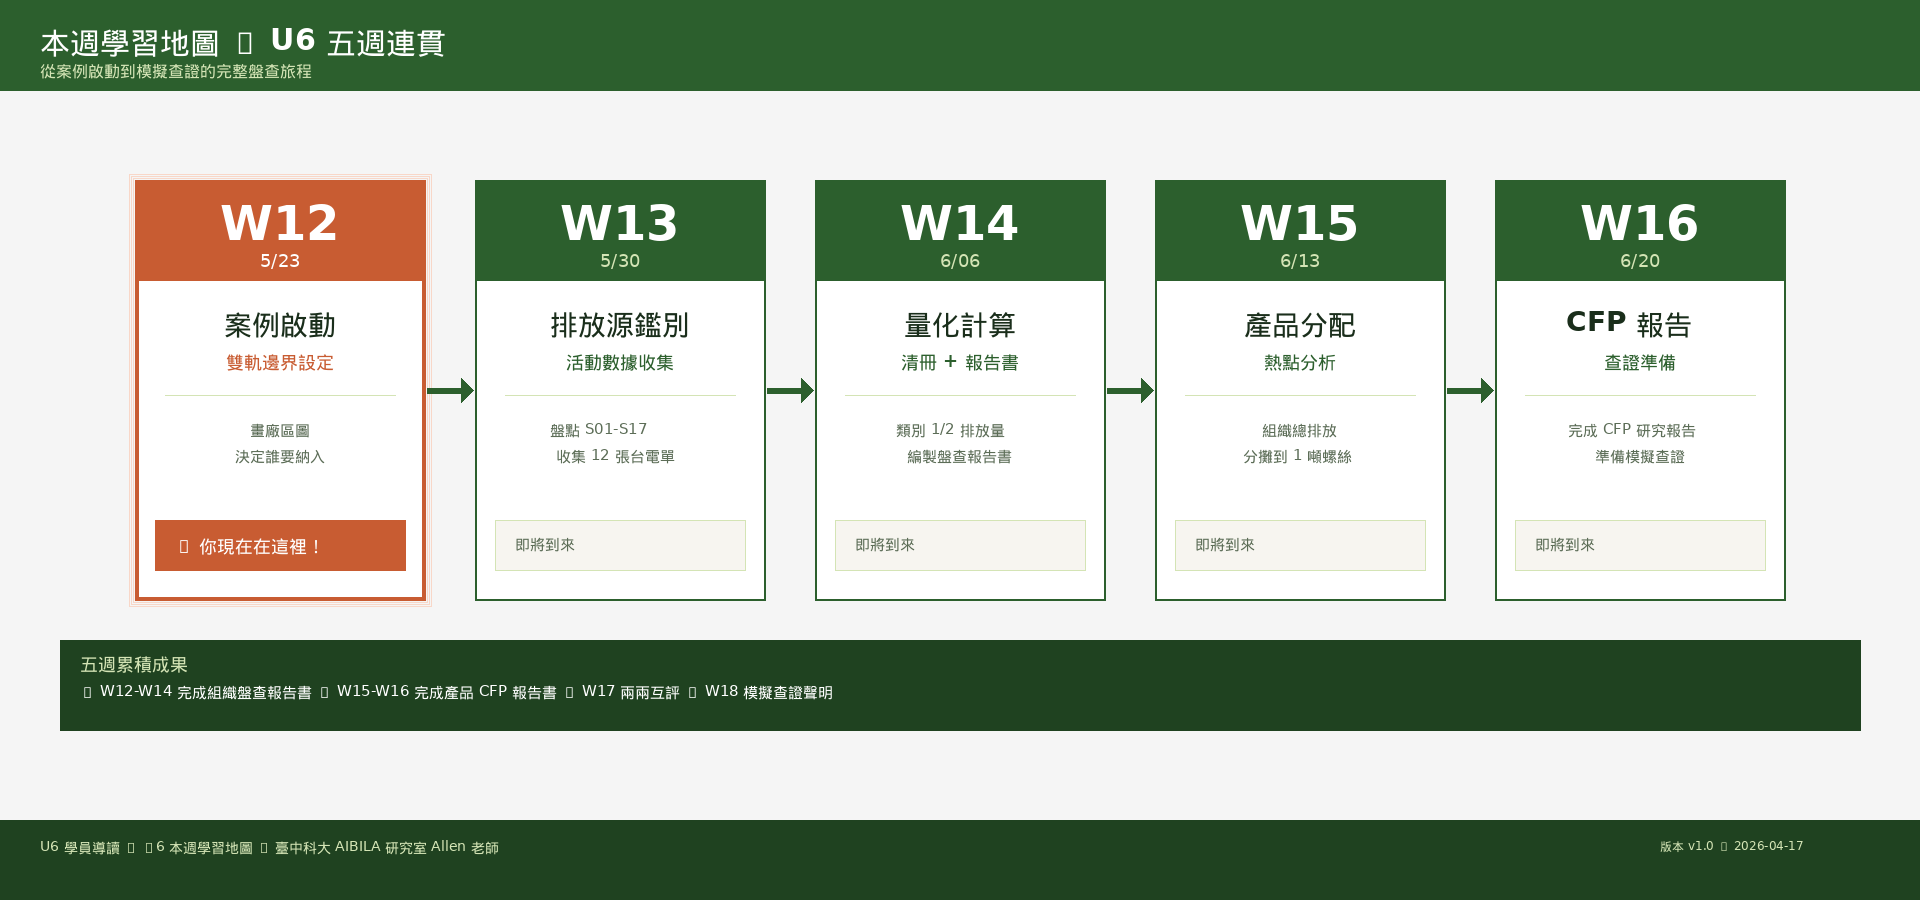
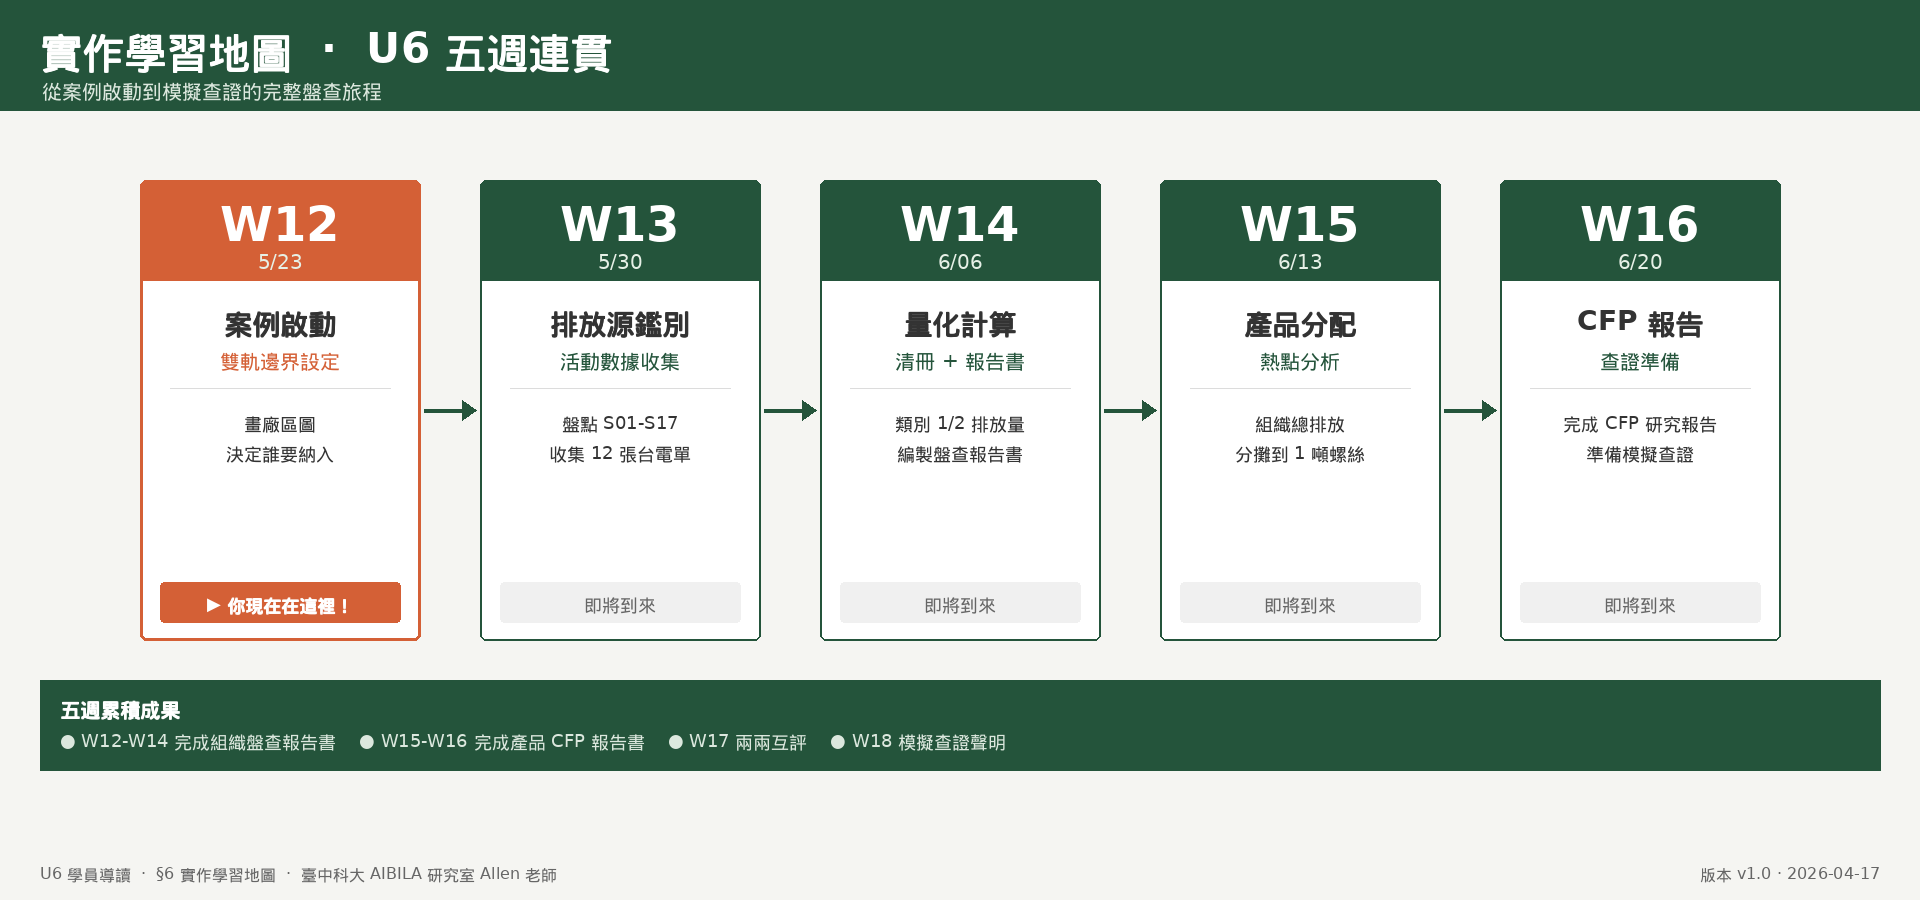
U6 學員導讀：本週學習地圖 → 實作學習地圖
- 章節標題「六、本週學習地圖（U6 五週連貫）」改為「六、實作學習地圖」
- 圖片 alt 由「U6 五週學習地圖」改為「U6 實作學習地圖」
- 重新產製 U6_學習地圖_U6五週連貫.png：圖上標題同步改為「實作學習地圖 · U6 五週連貫」

diff --git a/u6-case/index.html b/u6-case/index.html
@@ -408,8 +408,8 @@ footer a { color: var(--secondary); text-decoration: none; }
 <details><summary>答題提示</summary>鈦合金遠高於碳鋼（約 20 倍），主因是**上游鈦礦精煉的高電力與化學處理**。這說明「Cradle-to-Gate」系統邊界中，「Cradle（原料）」佔比往往遠超「製造」段。</details>
 
 <hr />
-<h2 id="u6_1">六、本週學習地圖（U6 五週連貫）</h2>
-<p><img alt="U6 五週學習地圖" src="./U6_學習地圖_U6五週連貫.png" /></p>
+<h2 id="u6_1">六、實作學習地圖</h2>
+<p><img alt="U6 實作學習地圖" src="./U6_學習地圖_U6五週連貫.png" /></p>
 <p><em>圖 6.1：U6 案例實作五週進度地圖（W12 案例啟動 → W16 CFP 報告），當前在 W12</em></p>
 <p><strong>W17、W18</strong>：各組交叉互助稽核、複查修正、發放模擬查證聲明書。</p>
 <hr />
